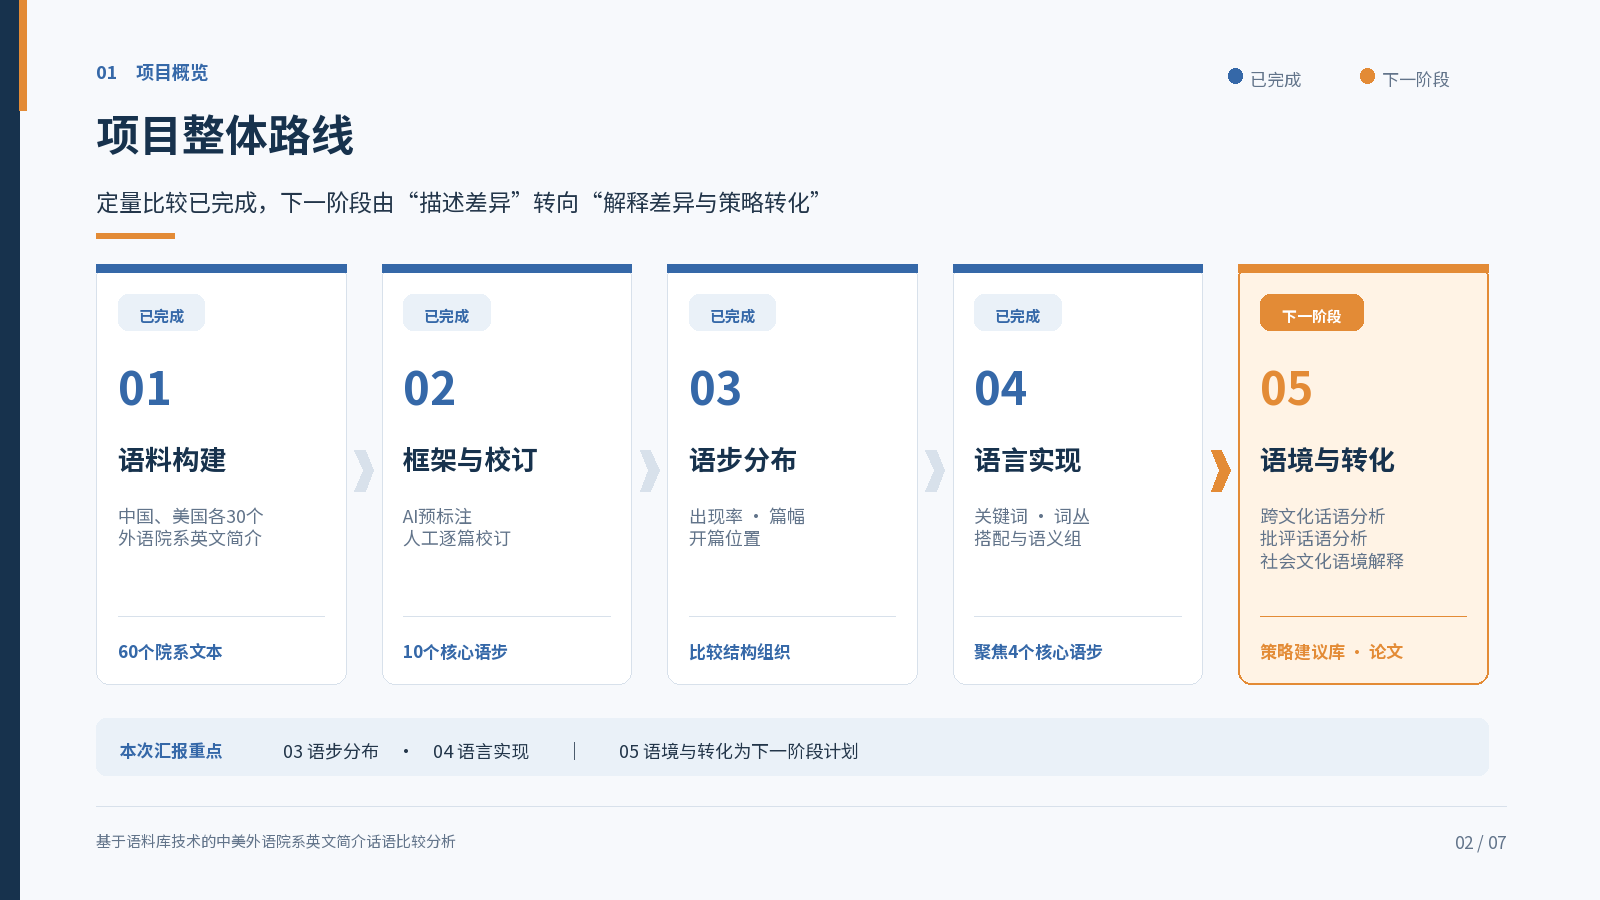
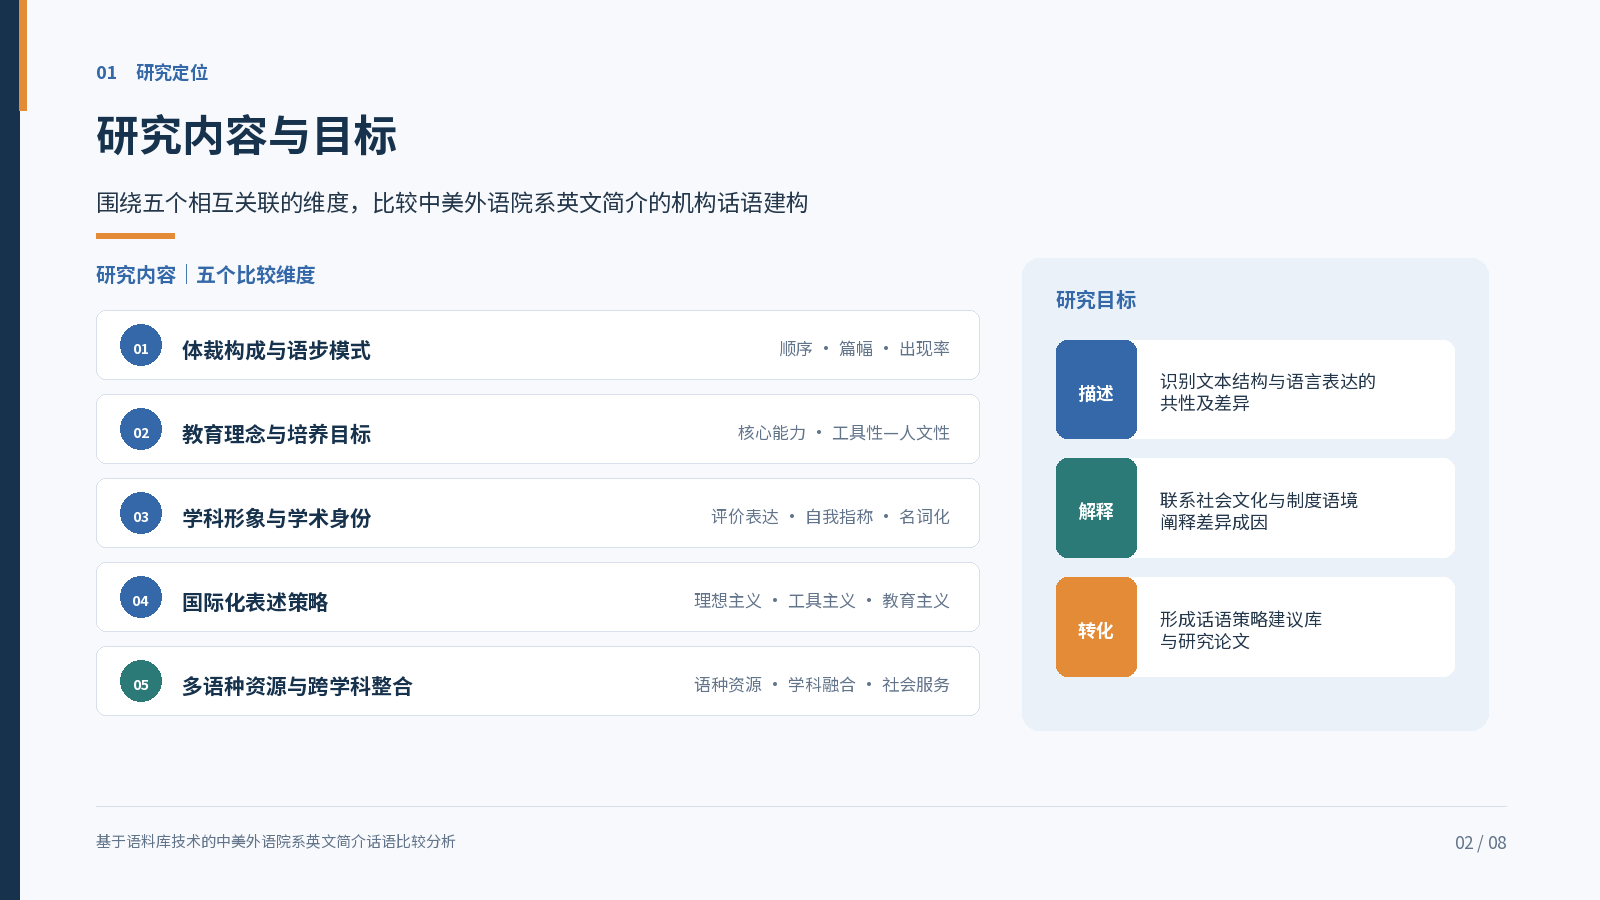
Add research content and objectives slide

diff --git a/midterm-report/presentation/build_presentation.py b/midterm-report/presentation/build_presentation.py
@@ -211,7 +211,7 @@ def slide_01(deck):
     c.text(0.80, 6.52, 3.00, 0.34, "外语学院", 13, NAVY, bold=True)
     c.text(0.80, 6.93, 6.60, 0.30, "汇报人：________　　指导教师：________", 11, MUTED)
     c.text(10.60, 6.90, 1.20, 0.30, "2026年", 11, MUTED, align="right")
-    c.text(11.90, 6.90, 0.65, 0.30, "01 / 07", 10, MUTED, align="right")
+    c.text(11.90, 6.90, 0.65, 0.30, "01 / 08", 10, MUTED, align="right")
     deck.save_slide(c)
 
 
@@ -220,7 +220,59 @@ def slide_02(deck):
     c.rect(0, 0, 0.16, SLIDE_H, NAVY)
     c.rect(0.16, 0, 0.055, 0.92, ORANGE)
 
-    c.text(0.80, 0.48, 3.20, 0.30, "01　项目概览", 11, BLUE, bold=True)
+    c.text(0.80, 0.48, 3.20, 0.30, "01　研究定位", 11, BLUE, bold=True)
+    c.text(0.80, 0.84, 6.40, 0.52, "研究内容与目标", 26, NAVY, bold=True)
+    c.text(0.80, 1.43, 11.50, 0.42,
+           "围绕五个相互关联的维度，比较中美外语院系英文简介的机构话语建构",
+           14, TEXT, valign="middle")
+    c.rect(0.80, 1.94, 0.65, 0.045, ORANGE)
+
+    c.text(0.80, 2.15, 4.60, 0.32, "研究内容｜五个比较维度", 12, BLUE, bold=True)
+    dimensions = [
+        ("01", "体裁构成与语步模式", "顺序 · 篇幅 · 出现率"),
+        ("02", "教育理念与培养目标", "核心能力 · 工具性—人文性"),
+        ("03", "学科形象与学术身份", "评价表达 · 自我指称 · 名词化"),
+        ("04", "国际化表述策略", "理想主义 · 工具主义 · 教育主义"),
+        ("05", "多语种资源与跨学科整合", "语种资源 · 学科融合 · 社会服务"),
+    ]
+    for i, (num, title, detail) in enumerate(dimensions):
+        y = 2.58 + i * 0.70
+        c.rect(0.80, y, 7.36, 0.58, WHITE, line=LINE, radius=0.08, width=0.8)
+        c.circle(1.00, y + 0.12, 0.34, BLUE if i < 4 else TEAL)
+        c.text(1.00, y + 0.12, 0.34, 0.34, num, 8.5, WHITE, bold=True,
+               align="center", valign="middle")
+        c.text(1.52, y + 0.07, 3.18, 0.44, title, 12.5, NAVY, bold=True, valign="middle")
+        c.text(4.74, y + 0.07, 3.18, 0.44, detail, 10, MUTED,
+               align="right", valign="middle")
+
+    c.rect(8.52, 2.15, 3.88, 3.93, PALE_BLUE, radius=0.14)
+    c.text(8.80, 2.36, 3.28, 0.34, "研究目标", 12, BLUE, bold=True)
+    goals = [
+        ("描述", "识别文本结构与语言表达的\n共性及差异", BLUE),
+        ("解释", "联系社会文化与制度语境\n阐释差异成因", TEAL),
+        ("转化", "形成话语策略建议库\n与研究论文", ORANGE),
+    ]
+    for i, (label, detail, color) in enumerate(goals):
+        y = 2.83 + i * 0.99
+        c.rect(8.80, y, 3.32, 0.82, WHITE, radius=0.09)
+        c.rect(8.80, y, 0.67, 0.82, color, radius=0.09)
+        c.text(8.80, y, 0.67, 0.82, label, 11, WHITE, bold=True,
+               align="center", valign="middle")
+        c.text(9.67, y + 0.07, 2.20, 0.68, detail, 10.5, TEXT, valign="middle", spacing=1.20)
+
+    c.line(0.80, 6.72, 12.55, 6.72, LINE, 0.8)
+    c.text(0.80, 6.91, 8.50, 0.28,
+           "基于语料库技术的中美外语院系英文简介话语比较分析", 9, MUTED)
+    c.text(11.90, 6.91, 0.65, 0.28, "02 / 08", 10, MUTED, align="right")
+    deck.save_slide(c)
+
+
+def slide_03(deck):
+    c = deck.add_slide()
+    c.rect(0, 0, 0.16, SLIDE_H, NAVY)
+    c.rect(0.16, 0, 0.055, 0.92, ORANGE)
+
+    c.text(0.80, 0.48, 3.20, 0.30, "02　项目概览", 11, BLUE, bold=True)
     c.text(0.80, 0.84, 6.40, 0.52, "项目整体路线", 26, NAVY, bold=True)
     c.text(0.80, 1.43, 11.50, 0.42,
            "定量比较已完成，下一阶段由“描述差异”转向“解释差异与策略转化”",
@@ -274,7 +326,7 @@ def slide_02(deck):
     c.line(0.80, 6.72, 12.55, 6.72, LINE, 0.8)
     c.text(0.80, 6.91, 8.50, 0.28,
            "基于语料库技术的中美外语院系英文简介话语比较分析", 9, MUTED)
-    c.text(11.90, 6.91, 0.65, 0.28, "02 / 07", 10, MUTED, align="right")
+    c.text(11.90, 6.91, 0.65, 0.28, "03 / 08", 10, MUTED, align="right")
     deck.save_slide(c)
 
 
@@ -282,6 +334,7 @@ def main():
     deck = Deck()
     slide_01(deck)
     slide_02(deck)
+    slide_03(deck)
     deck.save()
 
 
